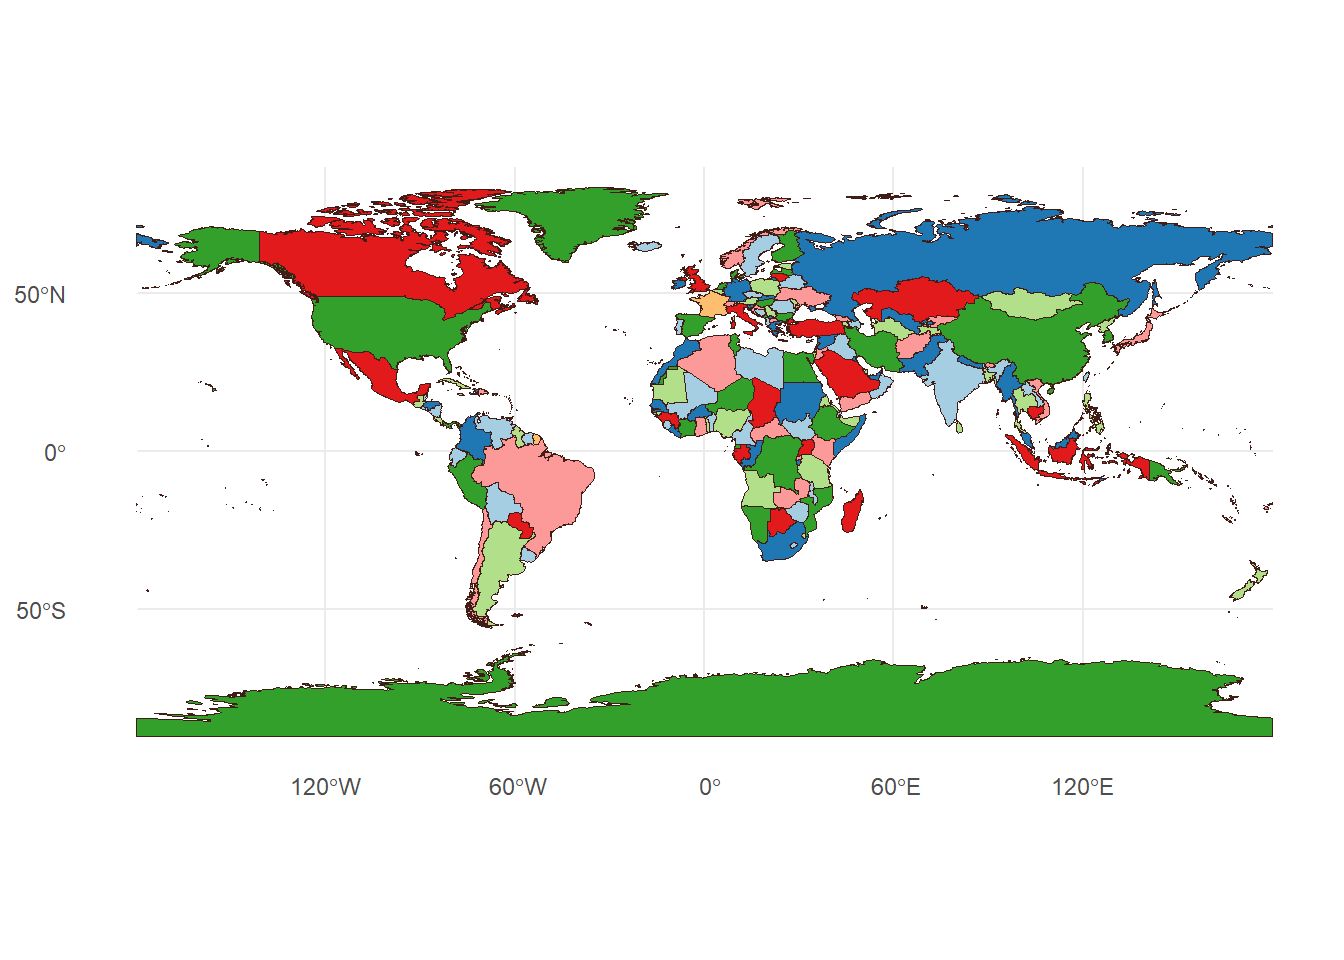
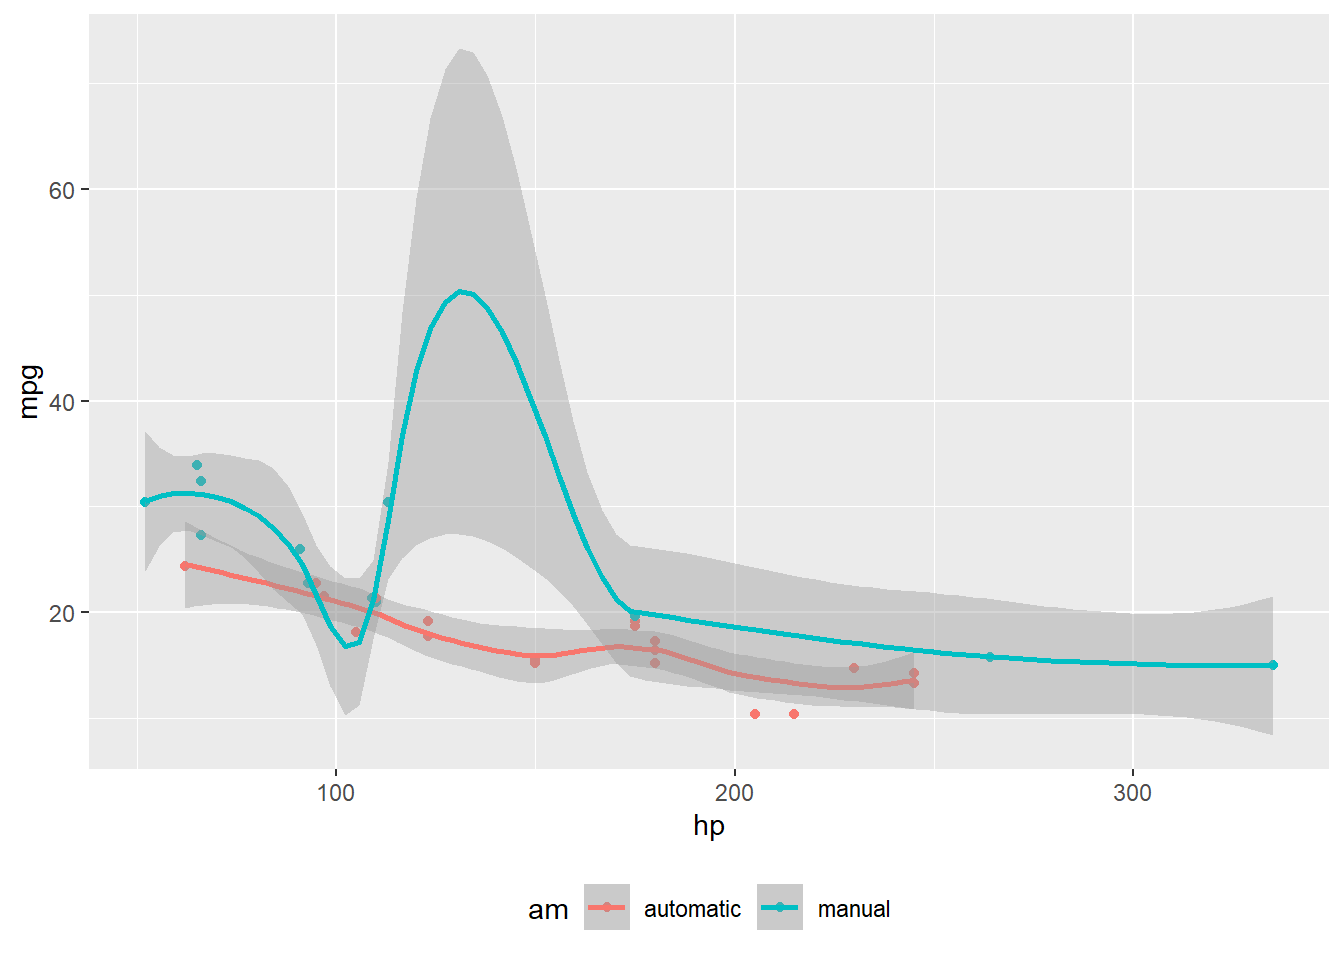
Update

diff --git a/docs/showcase.html b/docs/showcase.html
@@ -326,14 +326,10 @@ ul.task-list li input[type="checkbox"] {
 
 <div class="cell">
 <div class="cell-output-display">
-<div id="fig-margin" class="quarto-float quarto-figure quarto-figure-center anchored">
-<figure class="quarto-float quarto-float-fig figure">
-<div aria-describedby="fig-margin-caption-0ceaefa1-69ba-4598-a22c-09a6ac19f8ca">
-<img src="showcase_files/figure-html/fig-margin-1.png" class="img-fluid figure-img" width="672">
-</div>
-<figcaption class="quarto-float-caption-bottom quarto-float-caption quarto-float-fig" id="fig-margin-caption-0ceaefa1-69ba-4598-a22c-09a6ac19f8ca">
-Figure&nbsp;1: MPG vs horsepower, colored by transmission.
-</figcaption>
+<div class="quarto-figure quarto-figure-center">
+<figure class="figure">
+<p><img src="showcase_files/figure-html/unnamed-chunk-1-1.png" class="img-fluid figure-img" width="672"></p>
+<figcaption>MPG vs horsepower, colored by transmission.</figcaption>
 </figure>
 </div>
 </div>
@@ -345,7 +341,7 @@ Figure&nbsp;1: MPG vs horsepower, colored by transmission.
 <div class="cell-output-display">
 <div class="quarto-figure quarto-figure-center">
 <figure class="figure">
-<p><img src="showcase_files/figure-html/unnamed-chunk-1-1.png" class="img-fluid figure-img" width="672"></p>
+<p><img src="showcase_files/figure-html/unnamed-chunk-2-1.png" class="img-fluid figure-img" width="672"></p>
 <figcaption>World Map Without Australia, Color Indexed.</figcaption>
 </figure>
 </div>
@@ -355,7 +351,7 @@ Figure&nbsp;1: MPG vs horsepower, colored by transmission.
 <div class="cell-output-display">
 <div class="quarto-figure quarto-figure-center">
 <figure class="figure">
-<p><img src="showcase_files/figure-html/unnamed-chunk-2-1.png" class="img-fluid figure-img" width="672"></p>
+<p><img src="showcase_files/figure-html/unnamed-chunk-3-1.png" class="img-fluid figure-img" width="672"></p>
 <figcaption>Basic Map of Solomon Islands.</figcaption>
 </figure>
 </div>
@@ -365,7 +361,7 @@ Figure&nbsp;1: MPG vs horsepower, colored by transmission.
 <div class="cell-output-display">
 <div class="quarto-figure quarto-figure-center">
 <figure class="figure">
-<p><img src="showcase_files/figure-html/unnamed-chunk-3-1.png" class="img-fluid figure-img" width="672"></p>
+<p><img src="showcase_files/figure-html/unnamed-chunk-4-1.png" class="img-fluid figure-img" width="672"></p>
 <figcaption>Violin Plot on Threat Votes</figcaption>
 </figure>
 </div>
